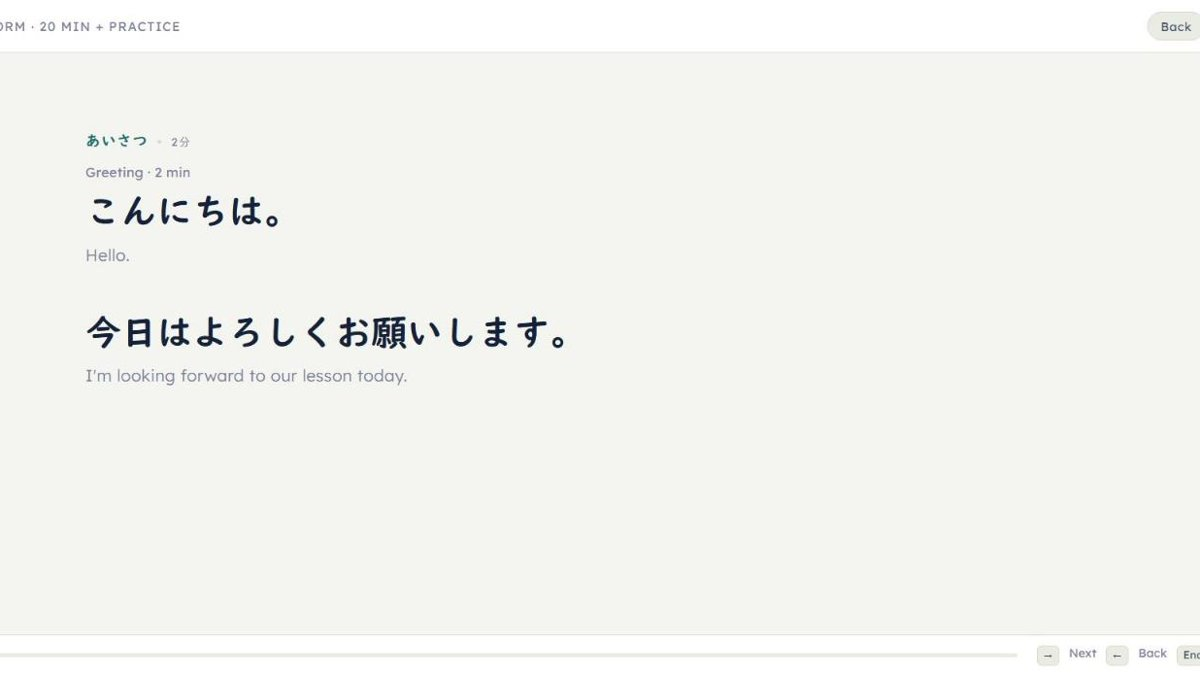
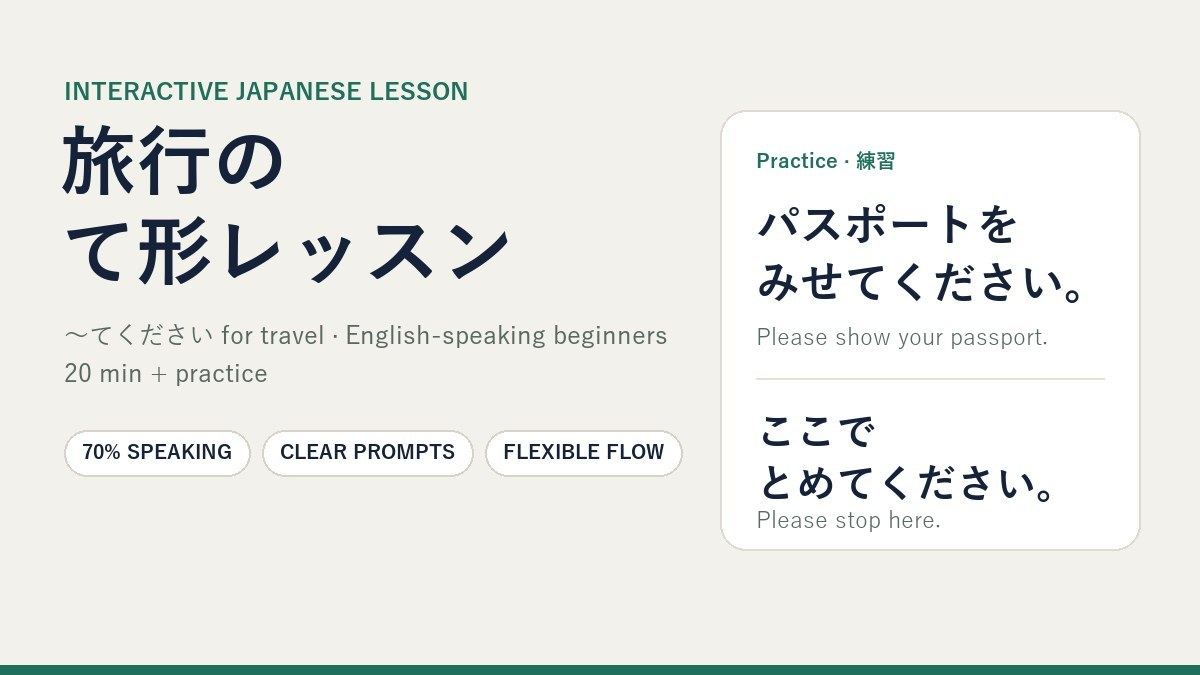
Replace te-form lesson cover image

diff --git a/index.html b/index.html
@@ -114,7 +114,7 @@ footer a{color:var(--accent)}
     </article>
 
     <article class="card">
-      <img src="teform.jpg" alt="Lesson screen: Japanese greeting with English translation">
+      <img src="teform.jpg" alt="Cover: Travel te-form lesson with practice sentences">
       <div class="body">
         <h3>Interactive Japanese Lesson: Te-form for Travel</h3>
         <p class="tag">20 minutes + practice · English-speaking beginners</p>
